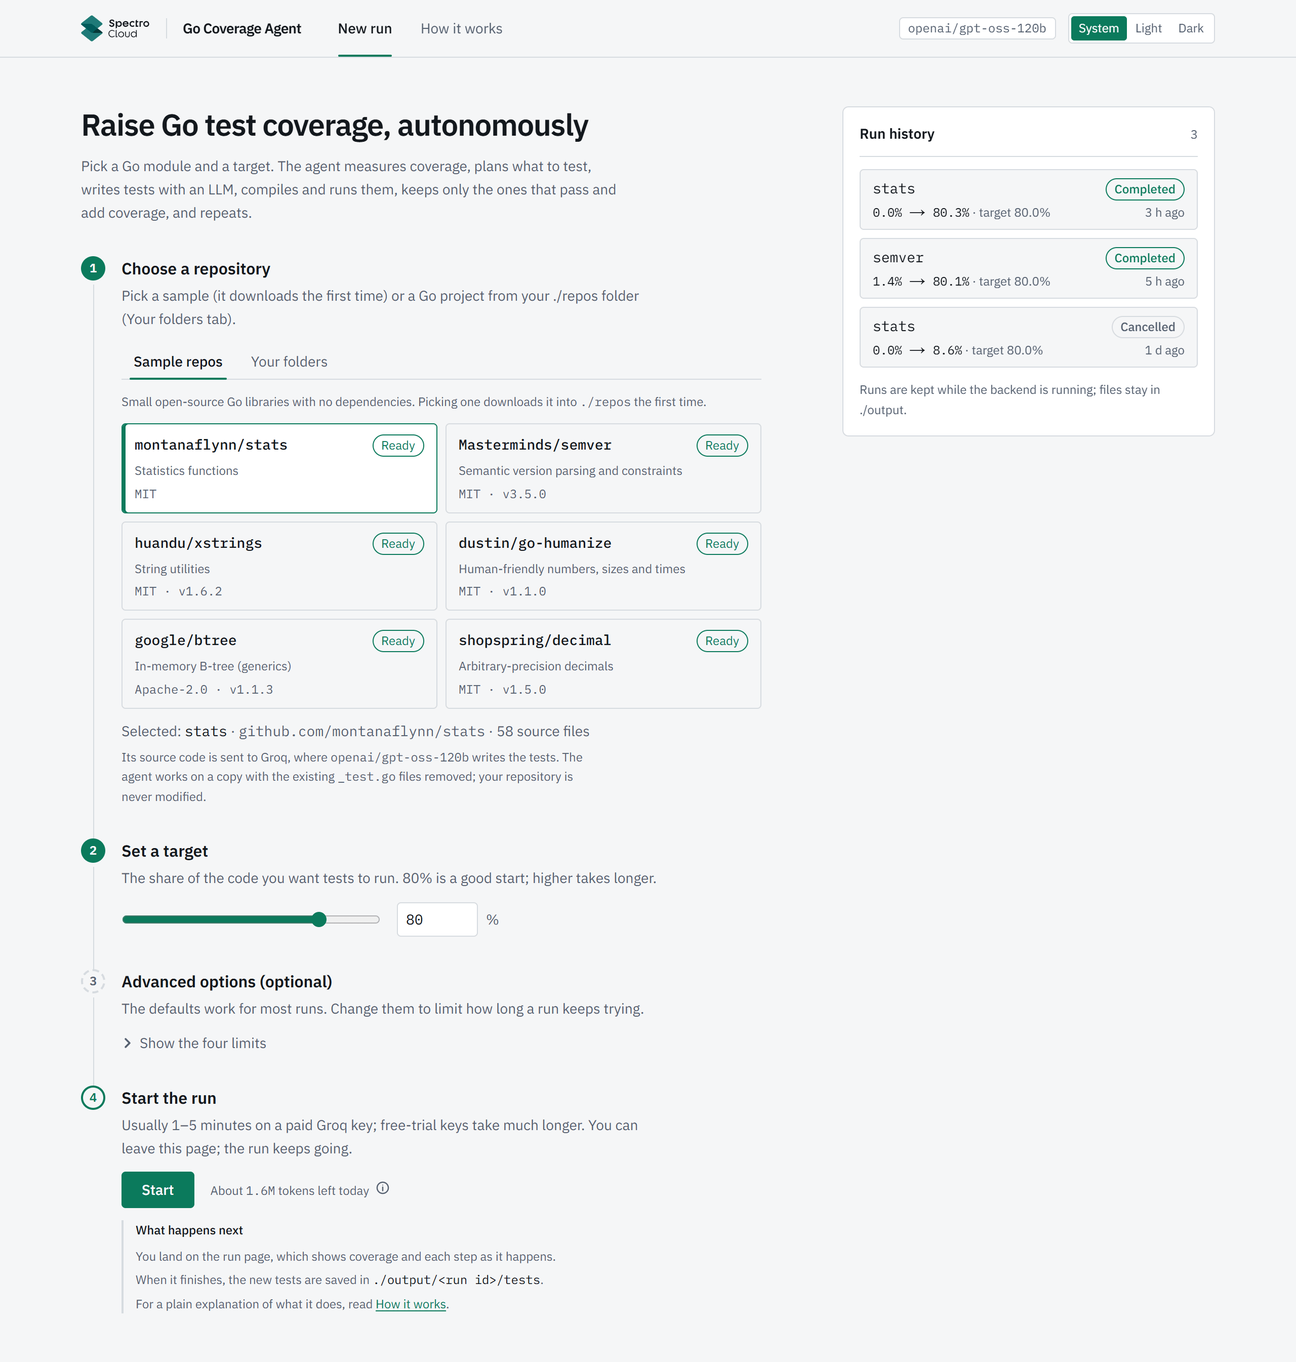
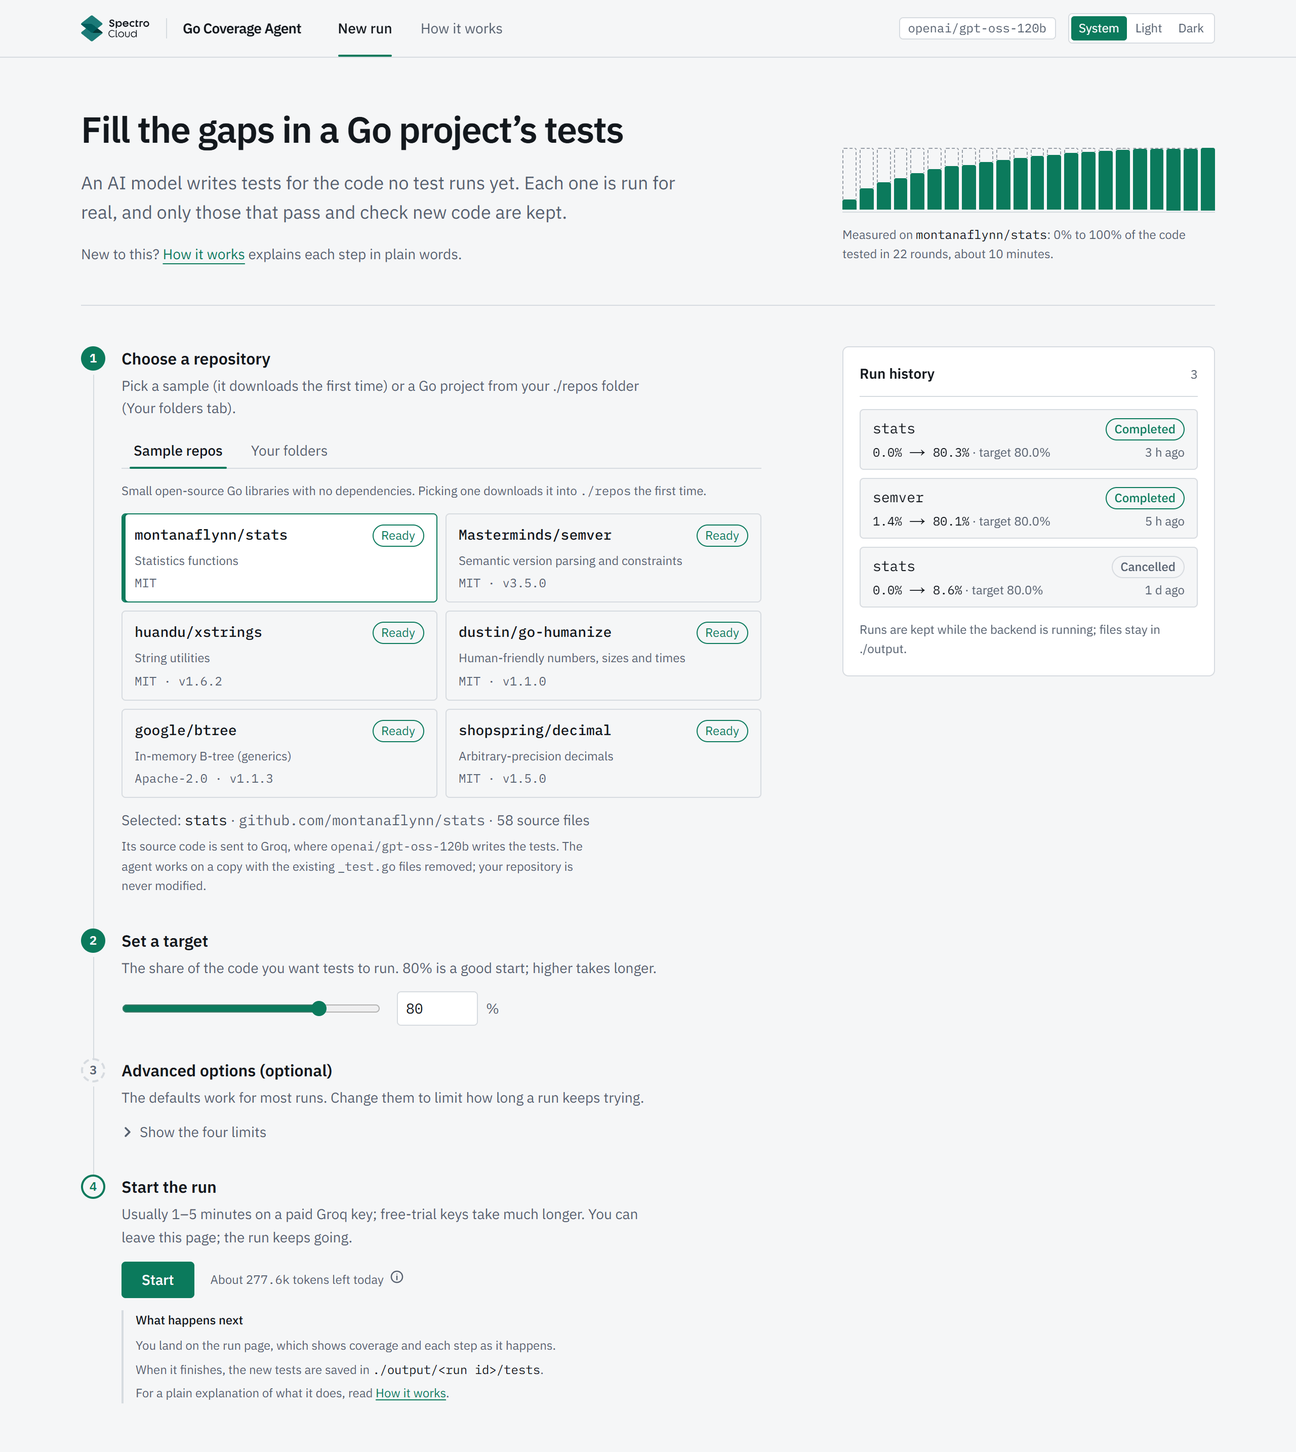
feat(frontend): redesign the New run header with plain wording and a measured run
The header now says "Fill the gaps in a Go project's tests" with one
supporting line and a How it works link, plus a small chart of a real run
(montanaflynn/stats, 0% to 100% in 22 rounds, run 0e1f8bf7442a). Header and
body share the same columns, so Run history starts level with step 1.
Screenshots and README captions retaken.

diff --git a/frontend/src/app/page.tsx b/frontend/src/app/page.tsx
@@ -27,7 +27,34 @@ function pickTab(folders: RepoInfo[]): PickerTab {
   return "folders";
 }
 
-const inputCls = "rounded-sm border border-border bg-surface px-2 py-1.5 font-mono text-sm";
+// Header and body share the columns, so the measured run sits above Run history and the aside starts level with step 1.
+const COLUMNS = "grid gap-10 lg:grid-cols-[minmax(0,1fr)_23rem] lg:gap-14";
+
+// Coverage after each round of a real run: montanaflynn/stats, goal 100%, run 0e1f8bf7442a
+// (output/0e1f8bf7442a/report.json, iterations[].end_percent; 0% at the start, 612 s in total).
+const MEASURED = [17.2, 33.9, 44.6, 51.6, 58.9, 64.7, 69.8, 72.0, 76.2, 80.0, 83.2, 86.0, 88.5, 90.8, 92.5, 94.2, 96.2, 97.0, 98.2, 99.4, 99.8, 100];
+
+/** One column per round: the filled part is the share of code tested, the dashed part the gap still left. */
+function MeasuredRun() {
+  return (
+    <figure className="min-w-0 space-y-3">
+      <div role="img" aria-label={`Coverage after each of ${MEASURED.length} rounds, rising from 17.2% to 100%`}
+           className="flex h-12 items-end gap-[3px] sm:h-16 border-b border-border pb-px">
+        {MEASURED.map((p, i) => (
+          <span key={i} aria-hidden className="flex h-full flex-1 flex-col">
+            <span style={{ height: `${100 - p}%` }} className={p < 100 ? "rounded-t-[2px] border border-b-0 border-dashed border-muted/60" : ""} />
+            <span style={{ height: `${p}%` }} className="rounded-t-[2px] bg-accent" />
+          </span>
+        ))}
+      </div>
+      <figcaption className="text-xs leading-relaxed text-muted">
+        Measured on <span className="font-mono text-text">montanaflynn/stats</span>: 0% to 100% of the code tested in 22 rounds, about 10 minutes.
+      </figcaption>
+    </figure>
+  );
+}
+
+const inputCls ="rounded-sm border border-border bg-surface px-2 py-1.5 font-mono text-sm";
 
 export default function SetupPage() {
   const router = useRouter();
@@ -110,110 +137,117 @@ export default function SetupPage() {
   const noBudget = tokensLeft != null && budgetBlocked(tokensLeft, minTokens);
 
   return (
-    <div className="grid gap-10 lg:grid-cols-[minmax(0,1fr)_23rem] lg:gap-14">
-      <form onSubmit={start} className="min-w-0 max-w-2xl space-y-8">
-        <section>
-          <h1 className="text-2xl font-semibold tracking-tight sm:text-3xl">Raise Go test coverage, autonomously</h1>
-          <p className="mt-3 max-w-prose text-sm leading-relaxed text-muted">
-            Pick a Go module and a target. The agent measures coverage, plans what to test, writes tests with an LLM,
-            compiles and runs them, keeps only the ones that pass and add coverage, and repeats.
+    <div className="space-y-10">
+      <header className={`${COLUMNS} items-end border-b border-border pb-8 sm:pb-10`}>
+        <div className="min-w-0 max-w-2xl space-y-4">
+          <h1 className="text-[1.75rem] font-semibold leading-tight tracking-tight sm:text-[2.25rem]">Fill the gaps in a Go project’s tests</h1>
+          <p className="max-w-[38rem] text-lg leading-relaxed text-muted">
+            An AI model writes tests for the code no test runs yet. Each one is run for real, and only those that pass and check new code are kept.
           </p>
-        </section>
+          <p className="text-sm text-muted">
+            New to this? <Link href="/how-it-works" className="text-accent underline underline-offset-4">How it works</Link> explains each step in plain words.
+          </p>
+        </div>
+        <MeasuredRun />
+      </header>
 
-        {health && !health.llm_configured && (
-          <div role="alert" className="rounded-sm border border-warn border-l-4 px-4 py-3 text-sm">
-            No Groq API key configured. Add <code className="font-mono">GROQ_API_KEY</code> to <code className="font-mono">.env</code> and restart <code className="font-mono">docker compose</code>.
-          </div>
-        )}
-        <ol aria-label="Steps to start a run">
-          <Step n={1} title="Choose a repository" done={!!selected}
-                hint="Pick a sample (it downloads the first time) or a Go project from your ./repos folder (Your folders tab).">
-            <RepoPicker tab={tab} onTabChange={changeTab} samples={samples} folders={folders} value={repo} onChange={setRepo}
-                        onDownload={download} onRefresh={reload} hostDir={health?.host_repos_dir ?? null} samplesFailed={samplesFailed} />
-            <div className="space-y-1.5">
-              <p className="text-sm text-muted">
-                {selected ? (
-                  <>Selected: <span className="font-mono text-text">{selected.path}</span> · <span className="font-mono">{selected.module}</span> · {selected.go_files} source files</>
-                ) : "Nothing selected yet. Pick a repository above."}
-              </p>
-              <p className="max-w-prose text-xs leading-relaxed text-muted">
-                {selected ? "Its" : "The selected repository's"} source code is sent to Groq{health ? <>, where <span className="font-mono">{health.model}</span> writes the tests</> : " to write the tests"}.
-                {" "}The agent works on a copy with the existing <code className="font-mono">_test.go</code> files removed; your repository is never modified.
-              </p>
+      <div className={COLUMNS}>
+        <form onSubmit={start} className="min-w-0 max-w-2xl space-y-8">
+          {health && !health.llm_configured && (
+            <div role="alert" className="rounded-sm border border-warn border-l-4 px-4 py-3 text-sm">
+              No Groq API key configured. Add <code className="font-mono">GROQ_API_KEY</code> to <code className="font-mono">.env</code> and restart <code className="font-mono">docker compose</code>.
             </div>
-          </Step>
+          )}
+          <ol aria-label="Steps to start a run">
+            <Step n={1} title="Choose a repository" done={!!selected}
+                  hint="Pick a sample (it downloads the first time) or a Go project from your ./repos folder (Your folders tab).">
+              <RepoPicker tab={tab} onTabChange={changeTab} samples={samples} folders={folders} value={repo} onChange={setRepo}
+                          onDownload={download} onRefresh={reload} hostDir={health?.host_repos_dir ?? null} samplesFailed={samplesFailed} />
+              <div className="space-y-1.5">
+                <p className="text-sm text-muted">
+                  {selected ? (
+                    <>Selected: <span className="font-mono text-text">{selected.path}</span> · <span className="font-mono">{selected.module}</span> · {selected.go_files} source files</>
+                  ) : "Nothing selected yet. Pick a repository above."}
+                </p>
+                <p className="max-w-prose text-xs leading-relaxed text-muted">
+                  {selected ? "Its" : "The selected repository's"} source code is sent to Groq{health ? <>, where <span className="font-mono">{health.model}</span> writes the tests</> : " to write the tests"}.
+                  {" "}The agent works on a copy with the existing <code className="font-mono">_test.go</code> files removed; your repository is never modified.
+                </p>
+              </div>
+            </Step>
 
-          <Step n={2} title="Set a target" done={targetValid}
-                hint="The share of the code you want tests to run. 80% is a good start; higher takes longer.">
-            <div className="space-y-2">
-              <label htmlFor="target" className="sr-only">Target coverage</label>
-              <div className="flex flex-wrap items-center gap-x-4 gap-y-2">
-                <input id="target" type="range" min={10} max={100} step={1} value={Math.min(100, Math.max(10, target || 10))}
-                       onChange={(e) => setTarget(Number(e.target.value))} className="w-full max-w-64 accent-[var(--accent)]" />
-                <div className="flex items-center gap-2">
-                  <input type="number" min={1} max={100} value={Number.isNaN(target) ? "" : target} aria-label="Target coverage percent"
-                         onChange={(e) => setTarget(e.target.value === "" ? NaN : Number(e.target.value))}
-                         className={`w-20 ${inputCls}`} />
-                  <span className="text-sm text-muted">%</span>
+            <Step n={2} title="Set a target" done={targetValid}
+                  hint="The share of the code you want tests to run. 80% is a good start; higher takes longer.">
+              <div className="space-y-2">
+                <label htmlFor="target" className="sr-only">Target coverage</label>
+                <div className="flex flex-wrap items-center gap-x-4 gap-y-2">
+                  <input id="target" type="range" min={10} max={100} step={1} value={Math.min(100, Math.max(10, target || 10))}
+                         onChange={(e) => setTarget(Number(e.target.value))} className="w-full max-w-64 accent-[var(--accent)]" />
+                  <div className="flex items-center gap-2">
+                    <input type="number" min={1} max={100} value={Number.isNaN(target) ? "" : target} aria-label="Target coverage percent"
+                           onChange={(e) => setTarget(e.target.value === "" ? NaN : Number(e.target.value))}
+                           className={`w-20 ${inputCls}`} />
+                    <span className="text-sm text-muted">%</span>
+                  </div>
                 </div>
+                {!targetValid && <p className="text-xs text-danger">Enter a target between 1 and 100.</p>}
               </div>
-              {!targetValid && <p className="text-xs text-danger">Enter a target between 1 and 100.</p>}
-            </div>
-          </Step>
+            </Step>
 
-          <Step n={3} title="Advanced options (optional)" optional
-                hint="The defaults work for most runs. Change them to limit how long a run keeps trying.">
-            <details className="group max-w-xl">
-              <summary className="flex w-fit cursor-pointer list-none items-center gap-1.5 rounded-sm text-sm text-muted hover:text-text [&::-webkit-details-marker]:hidden">
-                <svg aria-hidden viewBox="0 0 12 12" className="h-3 w-3 transition-transform group-open:rotate-90" fill="none" stroke="currentColor" strokeWidth="1.8" strokeLinecap="round" strokeLinejoin="round"><path d="M4 2l4 4-4 4" /></svg>
-                Show the four limits
-              </summary>
-              <div className="mt-3 grid gap-x-6 gap-y-4 rounded-sm border border-border bg-surface/60 p-4 sm:grid-cols-2">
-                {([
-                  ["max_iterations", "Max iterations", 1, 30, 1],
-                  ["min_gain", "Stop when an iteration gains less than (pp)", 0, 10, 0.5],
-                  ["targets_per_iteration", "Files per iteration", 1, 5, 1],
-                  ["max_fix_attempts", "Fix attempts per file", 0, 4, 1],
-                ] as const).map(([key, label, min, max, step]) => (
-                  <label key={key} className="flex flex-col justify-between gap-1.5 text-sm">
-                    <span className="block text-xs leading-snug text-muted">{label}</span>
-                    <input type="number" min={min} max={max} step={step} value={opts[key]}
-                           onChange={(e) => setOpts({ ...opts, [key]: Number(e.target.value) })}
-                           className={`w-24 ${inputCls}`} />
-                  </label>
-                ))}
+            <Step n={3} title="Advanced options (optional)" optional
+                  hint="The defaults work for most runs. Change them to limit how long a run keeps trying.">
+              <details className="group max-w-xl">
+                <summary className="flex w-fit cursor-pointer list-none items-center gap-1.5 rounded-sm text-sm text-muted hover:text-text [&::-webkit-details-marker]:hidden">
+                  <svg aria-hidden viewBox="0 0 12 12" className="h-3 w-3 transition-transform group-open:rotate-90" fill="none" stroke="currentColor" strokeWidth="1.8" strokeLinecap="round" strokeLinejoin="round"><path d="M4 2l4 4-4 4" /></svg>
+                  Show the four limits
+                </summary>
+                <div className="mt-3 grid gap-x-6 gap-y-4 rounded-sm border border-border bg-surface/60 p-4 sm:grid-cols-2">
+                  {([
+                    ["max_iterations", "Max iterations", 1, 30, 1],
+                    ["min_gain", "Stop when an iteration gains less than (pp)", 0, 10, 0.5],
+                    ["targets_per_iteration", "Files per iteration", 1, 5, 1],
+                    ["max_fix_attempts", "Fix attempts per file", 0, 4, 1],
+                  ] as const).map(([key, label, min, max, step]) => (
+                    <label key={key} className="flex flex-col justify-between gap-1.5 text-sm">
+                      <span className="block text-xs leading-snug text-muted">{label}</span>
+                      <input type="number" min={min} max={max} step={step} value={opts[key]}
+                             onChange={(e) => setOpts({ ...opts, [key]: Number(e.target.value) })}
+                             className={`w-24 ${inputCls}`} />
+                    </label>
+                  ))}
+                </div>
+              </details>
+            </Step>
+
+            <Step n={4} title="Start the run" last
+                  hint="Usually 1–5 minutes on a paid Groq key; free-trial keys take much longer. You can leave this page; the run keeps going.">
+              {error && <p role="alert" className="text-sm text-danger">{error}</p>}
+
+              <div className="space-y-2">
+                <div className="flex flex-wrap items-center gap-x-4 gap-y-2">
+                  <button type="submit" disabled={busy || !repo || !targetValid || !health?.llm_configured || running || noBudget}
+                          aria-describedby={noBudget ? "budget-reason" : undefined}
+                          className="shrink-0 rounded-sm bg-accent px-5 py-2 text-sm font-medium text-on-accent disabled:cursor-not-allowed disabled:opacity-40">
+                    {busy ? "Starting…" : "Start"}
+                  </button>
+                  {tokensLeft != null && <TokenBudget left={tokensLeft} min={minTokens} id="budget-reason" />}
+                </div>
+                {running && <p className="text-xs text-muted">A run is in progress. Follow it in Run history.</p>}
               </div>
-            </details>
-          </Step>
 
-          <Step n={4} title="Start the run" last
-                hint="Usually 1–5 minutes on a paid Groq key; free-trial keys take much longer. You can leave this page; the run keeps going.">
-            {error && <p role="alert" className="text-sm text-danger">{error}</p>}
-
-            <div className="space-y-2">
-              <div className="flex flex-wrap items-center gap-x-4 gap-y-2">
-                <button type="submit" disabled={busy || !repo || !targetValid || !health?.llm_configured || running || noBudget}
-                        aria-describedby={noBudget ? "budget-reason" : undefined}
-                        className="shrink-0 rounded-sm bg-accent px-5 py-2 text-sm font-medium text-on-accent disabled:cursor-not-allowed disabled:opacity-40">
-                  {busy ? "Starting…" : "Start"}
-                </button>
-                {tokensLeft != null && <TokenBudget left={tokensLeft} min={minTokens} id="budget-reason" />}
-              </div>
-              {running && <p className="text-xs text-muted">A run is in progress. Follow it in Run history.</p>}
-            </div>
-
-            <section aria-labelledby="next-heading" className="max-w-prose space-y-1.5 border-l-2 border-border pl-3 text-xs leading-relaxed text-muted">
-              <h3 id="next-heading" className="font-medium text-text">What happens next</h3>
-              <ul className="space-y-1">
-                <li>You land on the run page, which shows coverage and each step as it happens.</li>
-                <li>When it finishes, the new tests are saved in <code className="font-mono text-text">./output/&lt;run id&gt;/tests</code>.</li>
-                <li>For a plain explanation of what it does, read <Link href="/how-it-works" className="text-accent underline underline-offset-2">How it works</Link>.</li>
-              </ul>
-            </section>
-          </Step>
-        </ol>
-      </form>
-      <RunsPanel onJobs={onJobs} />
+              <section aria-labelledby="next-heading" className="max-w-prose space-y-1.5 border-l-2 border-border pl-3 text-xs leading-relaxed text-muted">
+                <h3 id="next-heading" className="font-medium text-text">What happens next</h3>
+                <ul className="space-y-1">
+                  <li>You land on the run page, which shows coverage and each step as it happens.</li>
+                  <li>When it finishes, the new tests are saved in <code className="font-mono text-text">./output/&lt;run id&gt;/tests</code>.</li>
+                  <li>For a plain explanation of what it does, read <Link href="/how-it-works" className="text-accent underline underline-offset-2">How it works</Link>.</li>
+                </ul>
+              </section>
+            </Step>
+          </ol>
+        </form>
+        <RunsPanel onJobs={onJobs} />
+      </div>
     </div>
   );
 }

diff --git a/frontend/src/app/page.test.tsx b/frontend/src/app/page.test.tsx
@@ -46,6 +46,24 @@ describe("SetupPage", () => {
     localStorage.clear();
   });
 
+  it("opens with a plain headline, one supporting line, a measured result and a How it works link, before step 1", async () => {
+    setup();
+    render(<SetupPage />);
+    const h1 = screen.getByRole("heading", { level: 1 });
+    expect(h1).toHaveTextContent("Fill the gaps in a Go project’s tests");
+    const header = h1.closest("header")!;
+    expect(header).toHaveTextContent(
+      "An AI model writes tests for the code no test runs yet. Each one is run for real, and only those that pass and check new code are kept.",
+    );
+    expect(header.textContent).not.toMatch(/autonomously|LLM/);
+    // the proof uses the real run 0e1f8bf7442a (output/0e1f8bf7442a/report.json)
+    expect(within(header).getByRole("img", { name: /22 rounds.*17\.2%.*100%/ })).toBeInTheDocument();
+    expect(header).toHaveTextContent("Measured on montanaflynn/stats: 0% to 100% of the code tested in 22 rounds, about 10 minutes.");
+    expect(within(header).getByRole("link", { name: "How it works" })).toHaveAttribute("href", "/how-it-works");
+    const steps = await screen.findByRole("list", { name: "Steps to start a run" });
+    expect(header.compareDocumentPosition(steps) & Node.DOCUMENT_POSITION_FOLLOWING).toBeTruthy();
+  });
+
   it("warns about a missing Groq key and disables Start", async () => {
     setup({ llm: false });
     render(<SetupPage />);

diff --git a/README.md b/README.md
@@ -169,7 +169,7 @@ I ran the system end to end, spotted these problems, and decided the fixes. Clau
 <tr>
 <td valign="top">
 <a href="docs/screenshots/gallery-setup.png"><img src="docs/screenshots/gallery-setup.png" width="100%" alt="Setup page with four numbered steps, the Sample repos tab, one sample selected, and the Run history panel"></a>
-<br><b>Setup page: numbered steps and Run history</b><br>The form as four numbered steps on a rail (1 Choose a repository and 2 Set a target show filled markers once done; 3 Advanced options is marked optional), each with a one-line hint. Step 1 holds the Sample repos tab with six cards (all six downloaded, so each shows Ready), <code>montanaflynn/stats</code> selected, the Selected summary (stats, <code>github.com/montanaflynn/stats</code>, 58 source files) with a short note under it (the code is sent to Groq, where <code>openai/gpt-oss-120b</code> writes the tests; the agent works on a copy and your repository is never modified), the closed Advanced options step, step 4 with the Start button, "About 1.6M tokens left today" and an ⓘ button beside it, and a short "What happens next" list (the run page, <code>./output/&lt;run id&gt;/tests</code>, How it works), and the Run history panel on the right: stats 0.0% to 80.3%, semver 1.4% to 80.1%, and a cancelled stats run at 8.6%.
+<br><b>Setup page: numbered steps and Run history</b><br>The header "Fill the gaps in a Go project’s tests" with one supporting line and a How it works link, and on the right a small chart of a measured run (coverage after each of 22 rounds on <code>montanaflynn/stats</code>, 0% to 100%). Below it, the form as four numbered steps on a rail (1 Choose a repository and 2 Set a target show filled markers once done; 3 Advanced options is marked optional), each with a one-line hint. Step 1 holds the Sample repos tab with six cards (all six downloaded, so each shows Ready), <code>montanaflynn/stats</code> selected, the Selected summary (stats, <code>github.com/montanaflynn/stats</code>, 58 source files) with a short note under it (the code is sent to Groq, where <code>openai/gpt-oss-120b</code> writes the tests; the agent works on a copy and your repository is never modified), the closed Advanced options step, step 4 with the Start button, "About 277.6k tokens left today" and an ⓘ button beside it, and a short "What happens next" list (the run page, <code>./output/&lt;run id&gt;/tests</code>, How it works), and the Run history panel on the right: stats 0.0% to 80.3%, semver 1.4% to 80.1%, and a cancelled stats run at 8.6%.
 </td>
 <td valign="top">
 <a href="docs/screenshots/gallery-runs-dark.png"><img src="docs/screenshots/gallery-runs-dark.png" width="100%" alt="Setup page and Run history panel in the dark theme"></a>
@@ -183,7 +183,7 @@ I ran the system end to end, spotted these problems, and decided the fixes. Clau
 </td>
 <td valign="top">
 <a href="docs/screenshots/gallery-setup-mobile.png"><img src="docs/screenshots/gallery-setup-mobile.png" width="100%" alt="Setup page on a phone-width screen"></a>
-<br><b>Setup page on mobile</b><br>The setup page at 390 px wide: the navbar collapses to a short title and S / L / D theme buttons, the numbered steps keep their rail, the sample cards stack in one column, the token budget line sits beside Start with "What happens next" under it, and Run history follows below.
+<br><b>Setup page on mobile</b><br>The setup page at 390 px wide: the navbar collapses to a short title and S / L / D theme buttons, the headline and supporting line stack above the measured-run chart, the numbered steps keep their rail, the sample cards stack in one column, the token budget line sits beside Start with "What happens next" under it, and Run history follows below.
 </td>
 </tr>
 <tr>
